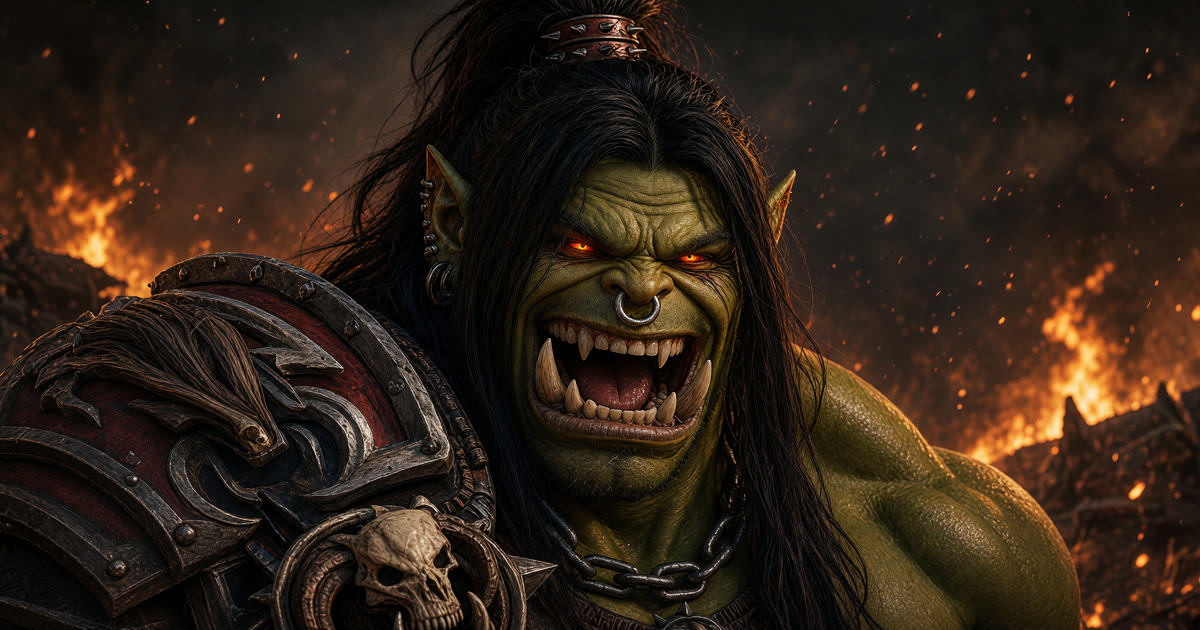
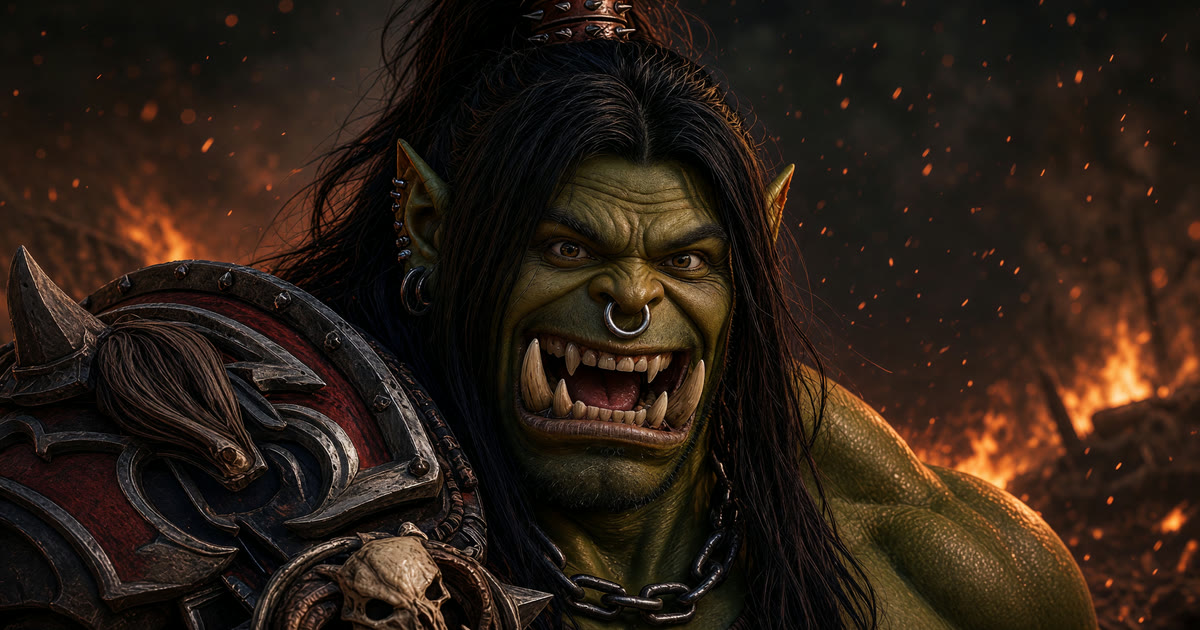
Give the happy orc normal eyes.

diff --git a/scripts/imagine-video.ts b/scripts/imagine-video.ts
@@ -59,7 +59,7 @@ const PROMPTS: Record<string, string> = {
     "The orc charges forward with the army, ranks running behind him, then bellows a rallying war cry, fist raised. Keep the wide shot and the army in frame. Locked camera, no zoom to a close-up.",
   gold: "The orc sits on the treasure and grins richer as coins shift and glint. A small satisfied chuckle in the shoulders. Locked camera.",
   happy:
-    "The orc laughs happily, a warm chuckle shaking his shoulders, eyes staying a glowing orange. Keep the long black hair tied with the spiked ring, the silver septum ring, the tusks, the skull pauldron, and the chain exactly as they are. Do not add red cheek paint or a short mohawk. Locked camera.",
+    "The orc laughs happily, a warm chuckle shaking his shoulders. Keep the normal brown eyes with visible whites and dark pupils, no glow. Keep the long black hair tied with the spiked ring, the silver septum ring, the tusks, the skull pauldron, and the chain. Locked camera.",
   heart:
     "The orc holds the heart-shaped hands toward the camera, a warm affectionate smile, a small fond blink. Locked camera.",
   hype:
